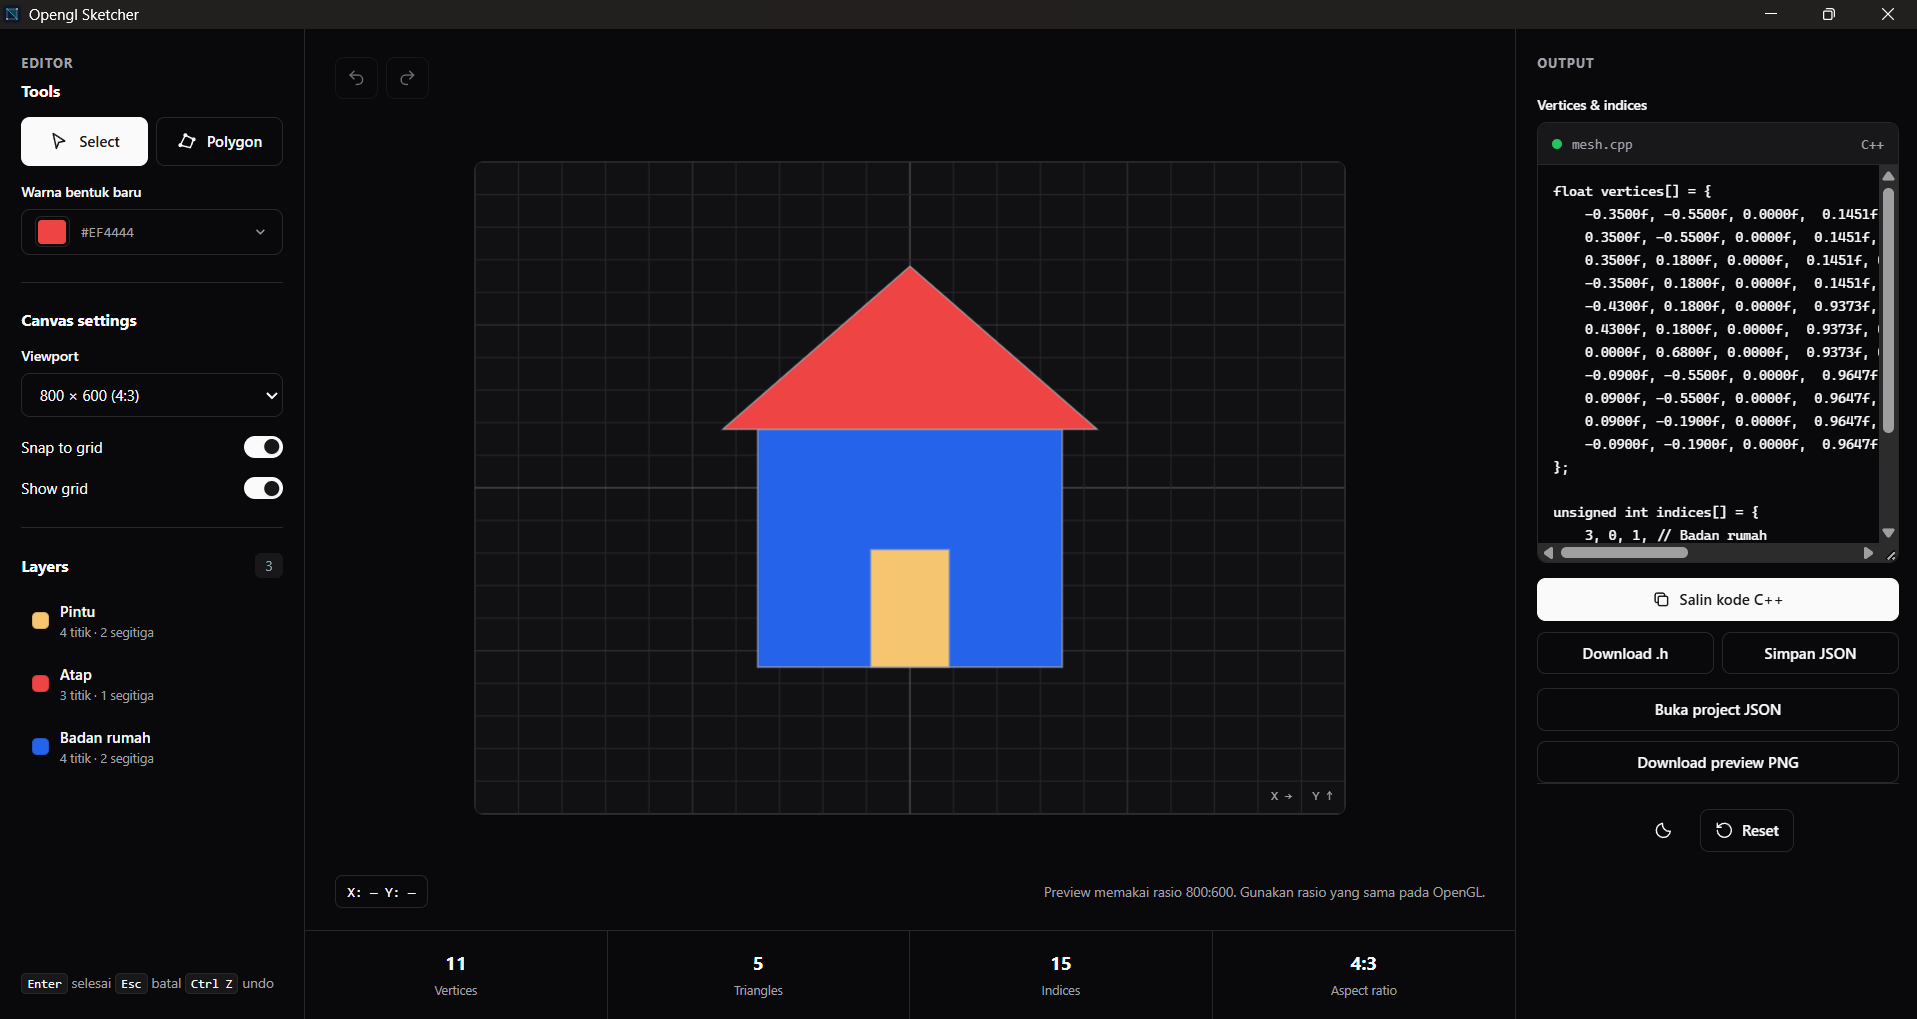
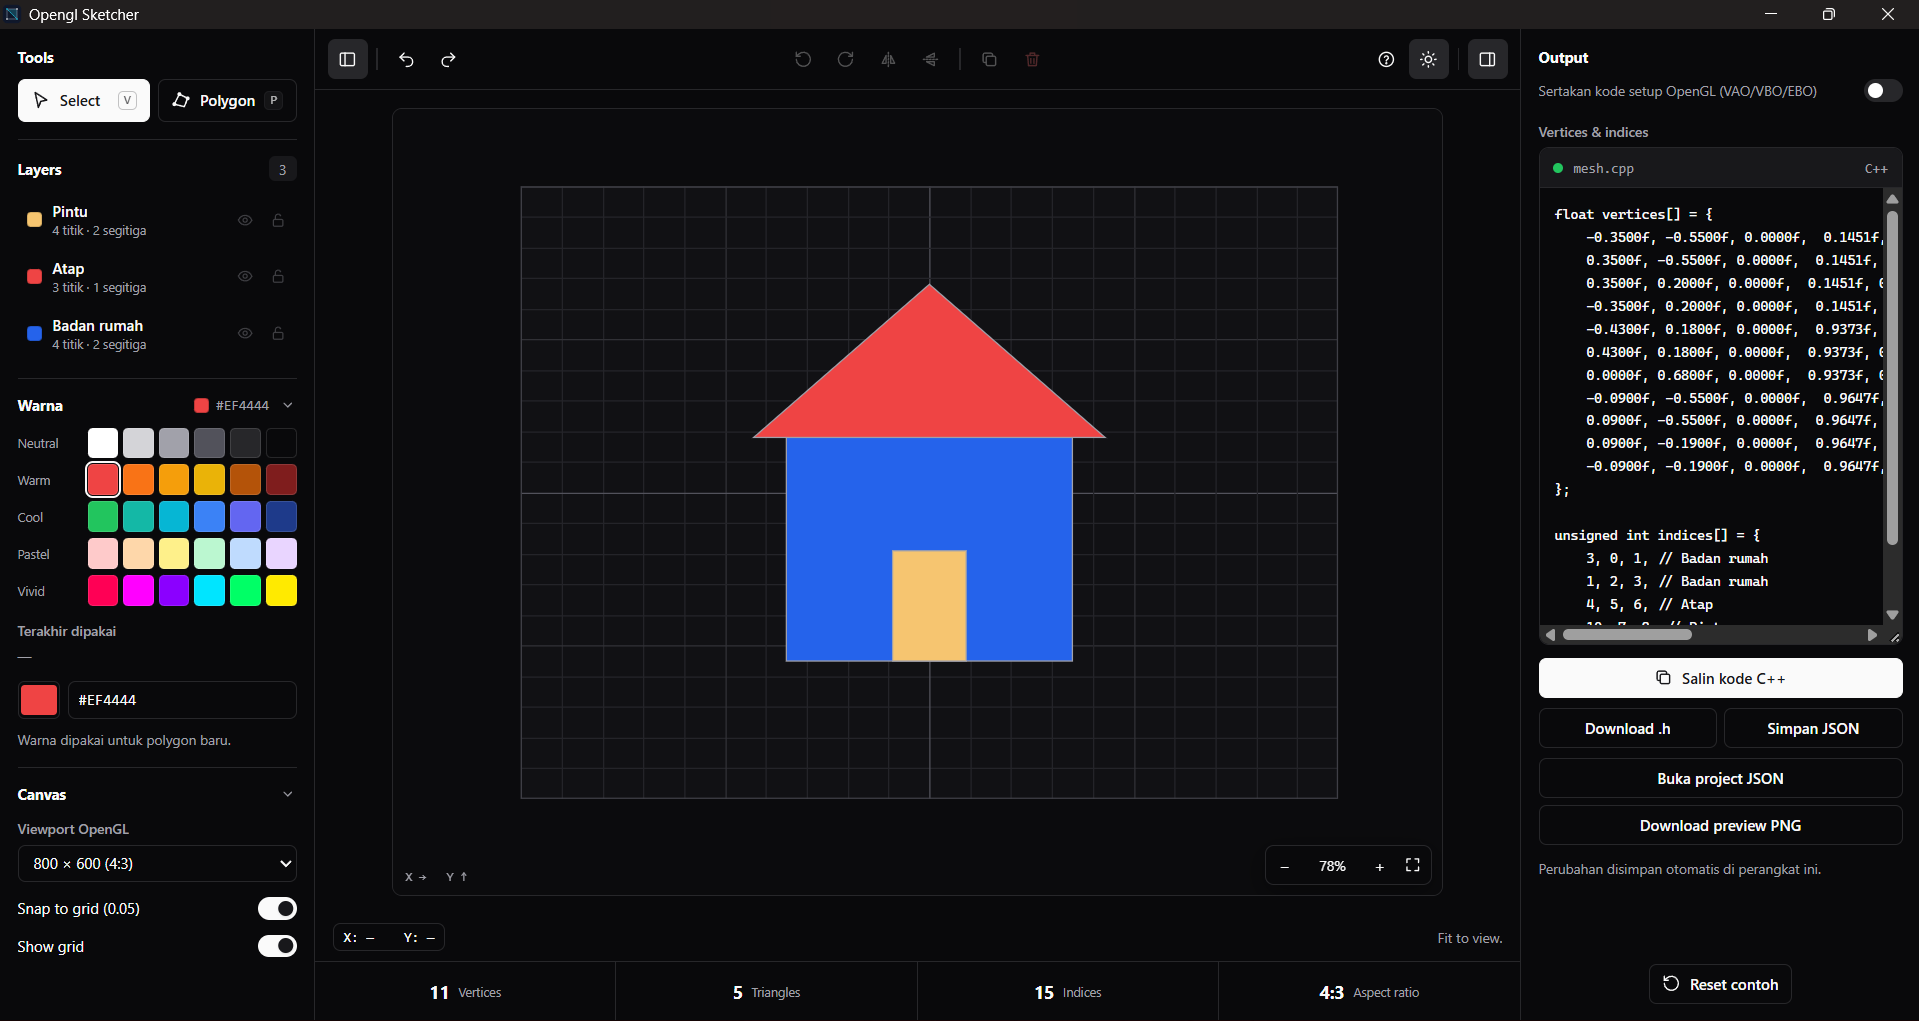
fix: update screenshot image

diff --git a/README.md b/README.md
@@ -9,7 +9,7 @@ A simple 2D polygon editor for creating geometry and generating vertices and ind
 - Close a polygon by clicking its first point; crossing edges are flagged red and rejected while drawing
 - Double-click an edge to insert a vertex, select a vertex and press Delete to remove it
 - Multi-selection (Shift+click, marquee, Ctrl+A), copy / cut / paste / duplicate
-- Move, nudge, rotate, resize, flip, align and distribute — every result is validated
+- Move, nudge, rotate, resize, flip, align and distribute. Every result is validated
 - Zoom (25%–800%, cursor-anchored) and pan, fit to view
 - Layers with visibility, lock, grouping and ordering
 - Colour palette with HEX input and recent colours
